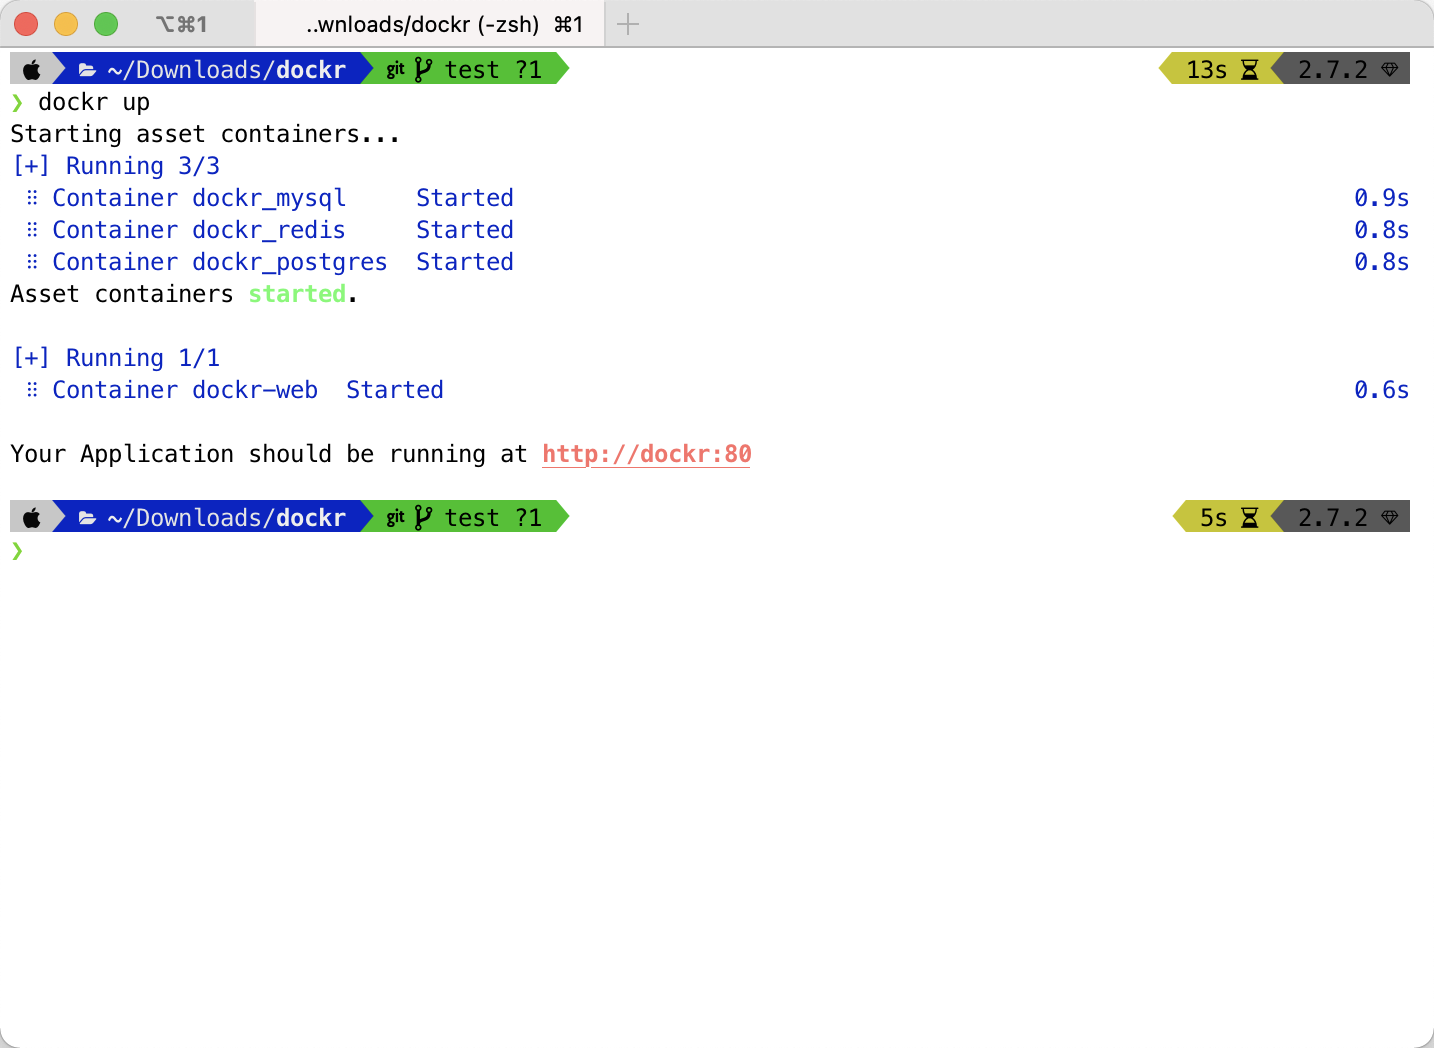
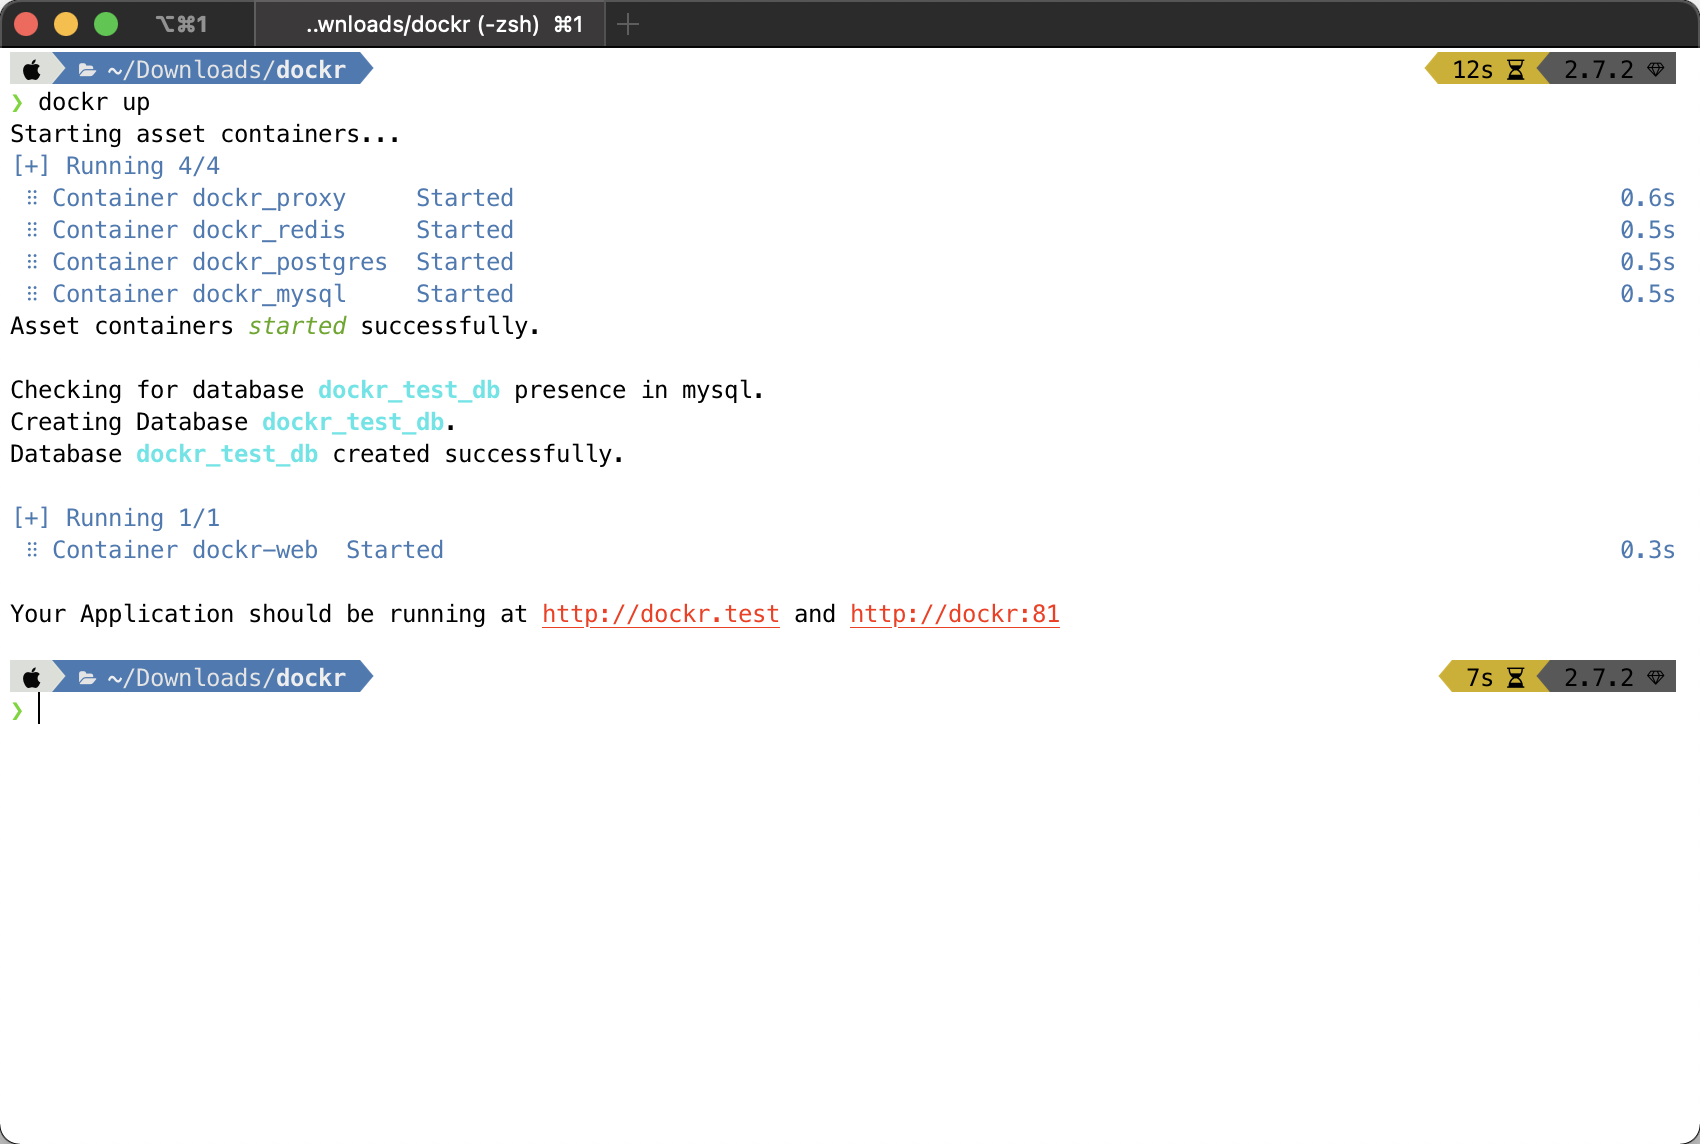
- Added v1.5 version docs

diff --git a/public/assets/landing/style.css b/public/assets/landing/style.css
@@ -2046,3 +2046,17 @@ code {
 .in-development {
     font-size: 15px;
 }
+
+body.lights-off .alert.alert-info {
+    color: #89d5e5 !important;
+    background-color: #073d48 !important;
+    border-color: #51757c !important;
+}
+
+body.lights-off code {
+    background: #323232 !important;
+}
+
+body.lights-off .text-danger {
+    color: #e91f31 !important;
+}

diff --git a/public/template/css/stylesheet.css b/public/template/css/stylesheet.css
@@ -672,7 +672,7 @@ hr {
     overflow: hidden;
     overflow-y: auto;
     width: 260px;
-    height: calc(100% - 70px - 50px);
+    height: calc(100% - 70px);
     z-index: 1;
     border-right: 1px solid rgba(0, 0, 0, 0.05);
     transition: all 0.3s;

diff --git a/public/assets/custom.css b/public/assets/custom.css
@@ -7,7 +7,7 @@
 }
 
 #markdown_content blockquote {
-    background-color: #eeeeee;
+    background-color: #fff1eb;
     border-radius: 10px;
     border-left: 5px solid #f5723b !important;
 }

diff --git a/resources/views/landing.blade.php b/resources/views/landing.blade.php
@@ -39,7 +39,7 @@
                         <h1 class="hero-title mt-0">DockR package for Laravel</h1>
                         <p class="hero-paragraph">Our package lets your Laravel projects run with Docker seamlessly for Local development environment.</p>
                         <div class="hero-cta">
-                            <a class="button button-primary" href="{{ getDocsRoute(null, 'installation') }}">Get it now</a>
+                            <a class="button button-primary" href="{{ route('docs.latest', ['path' => 'introduction']) }}">Get it now</a>
                         </div>
                     </div>
                     <div class="hero-media">
@@ -52,6 +52,7 @@
                             <img class="hero-media-illustration-image asset-dark" src="{{ asset('assets/landing/images/hero-media-illustration-dark.svg') }}" alt="Hero media illustration">
                         </div>
                         <div class="hero-media-container">
+                            {{-- Terminal rows and columns used for this image : 120 x 34 --}}
                             <img class="hero-media-image asset-light" src="{{ asset('assets/landing/images/terminal-output/up-light.png') }}" alt="Hero media">
                             <img class="hero-media-image asset-dark" src="{{ asset('assets/landing/images/terminal-output/up-dark.png') }}" alt="Hero media">
                         </div>
@@ -89,6 +90,18 @@
                                 <div class="feature-content">
                                     <h3 class="feature-title mt-0">PHP Versions</h3>
                                     <p class="text-sm mb-0">DockR supports almost every PHP Versions. Don't worry, other PHP versions weren't abandoned, they will be supported in the upcoming weeks.</p>
+                                </div>
+                            </div>
+                        </div>
+                        <div class="feature is-revealing">
+                            <div class="feature-inner">
+                                <div class="feature-icon">
+                                    <img class="asset-light" src="{{ asset('assets/landing/images/feature-03-light.svg') }}" alt="Feature 03">
+                                    <img class="asset-dark" src="{{ asset('assets/landing/images/feature-03-dark.svg') }}" alt="Feature 03">
+                                </div>
+                                <div class="feature-content">
+                                    <h3 class="feature-title mt-0">Proxy</h3>
+                                    <p class="text-sm mb-0">DockR provides an option to proxy the incoming request via a Domain name of your choice instead of using <i>localhost:port</i></p>
                                 </div>
                             </div>
                         </div>
@@ -153,17 +166,17 @@
                             </div>
                         </div>
                     </div>
-                    <div style="padding-top: 88px; font-size:16px">
-                        <div class="alert alert-info">
-                            <div class="row">
-                                <div class="text-danger">Note : &nbsp;</div>
-                                <div>
-                                    More features such as <code class="text-danger">DB Import</code>, <code class="text-danger">Asset Config</code>, <code class="text-danger">Site Proxy</code> and more were already build and is in testing phase.
-                                    <br>We will release the next version once the issues fixed and documentation works are completed.
-                                </div>
-                            </div>
-                        </div>
-                    </div>
+{{--                    <div style="padding-top: 88px; font-size:16px">--}}
+{{--                        <div class="alert alert-info">--}}
+{{--                            <div class="row">--}}
+{{--                                <div class="text-danger">Note : &nbsp;</div>--}}
+{{--                                <div>--}}
+{{--                                    More features such as <code class="text-danger">DB Import</code>, <code class="text-danger">Asset Config</code>, <code class="text-danger">Site Proxy</code> and more were already build and is in testing phase.--}}
+{{--                                    <br>We will release the next version once the issues fixed and documentation works are completed.--}}
+{{--                                </div>--}}
+{{--                            </div>--}}
+{{--                        </div>--}}
+{{--                    </div>--}}
                 </div>
             </div>
         </section>
@@ -172,13 +185,13 @@
             <div class="container-sm">
                 <div class="cta-inner section-inner">
                     <div class="cta-header text-center">
-                        <h2 class="section-title mt-0">Documentation <span class="in-development">(In Development)</span></h2>
+                        <h2 class="section-title mt-0">Documentation</h2>
 
-                        <p class="section-paragraph">A not so well-prepared documentation is already live. Documentation preparation is on progress.
-                            It is delayed due to the global pandemic. Documentation will be updated as soon as possible.
+                        <p class="section-paragraph">
+                            For more information on DockR.<br>Please visit the documentation<br>Documentation link below.
                         </p>
                         <div class="cta-cta">
-                            <a class="button button-primary" href="{{ getDocsRoute(null, 'introduction') }}">Documentation</a>
+                            <a class="button button-primary" href="{{ route('docs.latest') }}">Documentation</a>
                         </div>
                     </div>
                 </div>

diff --git a/resources/views/docs/navbar.blade.php b/resources/views/docs/navbar.blade.php
@@ -1,0 +1,37 @@
+<header id="header" class="sticky-top">
+    <!-- Navbar -->
+    <nav class="primary-menu navbar navbar-expand-lg">
+        <div class="container-fluid">
+            <!-- Sidebar Toggler -->
+            <button id="sidebarCollapse" class="navbar-toggler d-block d-md-none" type="button">
+                <span></span>
+                <span class="w-75"></span>
+                <span class="w-50"></span>
+            </button>
+
+            <!-- Logo -->
+            <a class="logo ml-md-3" href="{{ route('home') }}" title="{{ $appName }}">
+                <img alt="{{ $appName }}"
+                     src="{{ $appLogo }}"
+                     width="150rem"/>
+            </a>
+
+{{--            <div class="row mr-3 ml-0">--}}
+{{--                 Todo : Add blog Site Link --}}
+{{--                <x-header.version_dropdown></x-header.version_dropdown>--}}
+{{--            </div>--}}
+
+            <div id="header-nav" class="collapse navbar-collapse justify-content-end">
+                <ul class="navbar-nav">
+                    @if(configEnv('pages.blog.enabled'))
+                        <li>
+                            <a href="{{ configEnv('pages.blog.link') }}">Blog</a>
+                        </li>
+                    @endif
+                    <x-header.version_dropdown></x-header.version_dropdown>
+                </ul>
+            </div>
+        </div>
+    </nav>
+    <!-- Navbar End -->
+</header>

diff --git a/resources/views/components/header/version_dropdown.blade.php b/resources/views/components/header/version_dropdown.blade.php
@@ -1,14 +1,19 @@
-<div class="row mr-3 ml-0">
-    <label for="header_version_toggle"></label>
-    <select class="version" id="header_version_toggle" name="version_toggle">
+<li class="dropdown">
+    <a class="dropdown-toggle" href="#" onclick="event.preventDefault()">
+        {{ ucwords(request()->route()->parameter('version')) }}
+        <span class="mx-1">&bigtriangledown;</span>
+    </a>
+    <ul class="dropdown-menu">
         @foreach(getVersionList() as $version)
-            <option value="{{ $version }}"
+            <li>
+                <a href="{{ getDocsRoute($version, request()->route('path')) }}"
                     @if($version == request()->route()->parameter('version'))
-                    selected
-                    data-page="current"
+                        onclick="event.preventDefault()" class="dropdown-item text-info"
+                   @else
+                        class="dropdown-item"
                     @endif
-                    data-url="{{ getDocsRoute($version, request()->route('path')) }}"
-            >{{ $version }}</option>
+                >{{ ucwords($version) }}</a>
+            </li>
         @endforeach
-    </select>
-</div>
+    </ul>
+</li>

diff --git a/config/environment-values.php b/config/environment-values.php
@@ -44,7 +44,7 @@ return [
             'v1.1',
             'v1.2',
         ],
-        'default' => 'v1.2',
+        'default' => env('DOCS_DEFAULT_VERSION', 'v1.2'),
     ],
 
     /*
@@ -53,7 +53,19 @@ return [
     |--------------------------------------------------------------------------
     */
     'path' => [
-        'default' => 'installation',
+        'default' => env('DOCS_DEFAULT_PATH', 'install-mac'),
         'sidebar' => 'documentation',
     ],
+
+    /*
+    |--------------------------------------------------------------------------
+    | Other pages
+    |--------------------------------------------------------------------------
+    */
+    'pages' => [
+        'blog' => [
+            'enabled' => env('DOCKR_BLOG_ENABLED', false),
+            'link' => env('DOCKR_BLOG_LINK', 'https://blog.dockr.in')
+        ],
+    ]
 ];

diff --git a/app/Http/Middleware/View.php b/app/Http/Middleware/View.php
@@ -28,8 +28,29 @@ class View
             // Repo Logo
             'githubLogo' => asset('logo/others/github.png'),
             'dockerHubLogo' => asset('logo/others/docker_hub.png'),
+
+            // Path for setting Title of the page
+            'titlePath' => $this->parseTitlePath($request),
         ]);
 
         return $next($request);
+    }
+
+    /**
+     * Parse Title Path Text
+     *
+     * @param Request $request
+     * @return string
+     */
+    private function parseTitlePath(Request $request)
+    {
+        $path = $request->route()->parameter('path');
+
+        if (isset($path)) {
+            $path = str_replace('-', ' ', $path);
+            $path = str_replace('_', ' ', $path);
+            return ucwords(strtolower($path)) . ' |';
+        }
+        return '';
     }
 }

diff --git a/routes/web.php b/routes/web.php
@@ -2,7 +2,6 @@
 
 use App\Http\Controllers\DocumentController;
 use App\Http\Controllers\HomeController;
-use App\Http\Controllers\MarkdownController;
 use Illuminate\Support\Facades\Route;
 
 /*
@@ -16,6 +15,12 @@ use Illuminate\Support\Facades\Route;
 |
 */
 
+// Landing Page
 Route::get('/', [HomeController::class, 'index'])->name('home');
 
+// Latest Docs Route
+Route::get('docs/latest/{path?}', [DocumentController::class, 'latest'])->name('docs.latest');
+
+// Specified Docs Route
 Route::get('docs/{version}/{path}', [DocumentController::class, 'show'])->name('docs.show');
+Route::get('docs/{version}/{path}/{sub_path}', [DocumentController::class, 'show'])->name('docs.show_2');

diff --git a/resources/views/docs/layout.blade.php b/resources/views/docs/layout.blade.php
@@ -5,7 +5,7 @@
     <meta http-equiv="X-UA-Compatible" content="IE=edge">
     <meta name="viewport" content="width=device-width, initial-scale=1, minimum-scale=1.0, shrink-to-fit=no">
     <link href="{{ $appIcon  }}" rel="icon"/>
-    <title>{{ $appName }}</title>
+    <title>{{ $titlePath }} {{ $appName }}</title>
     <meta name="author" content="sharanvelu">
     <meta name="description" content="Documentation For Dockr">
 
@@ -40,7 +40,7 @@
 <div id="main-wrapper">
 
     <!-- Header -->
-@include('docs.header')
+    @include('docs.navbar')
 
     <!-- Content -->
     <div id="content" role="main">

diff --git a/resources/views/docs/sidebar.blade.php b/resources/views/docs/sidebar.blade.php
@@ -1,14 +1,3 @@
 <div class="idocs-navigation bg-light">
     {!! $sidebarContent !!}
-
-    <div class="sidebar-links p-2">
-        <div class="row justify-content-around m-0">
-            <a class="repo-link-icon" href="{{ $dockrGithub }}" target="_blank">
-                <img src="{{ $githubLogo }}" alt="Github Logo">
-            </a>
-            <a class="repo-link-icon" href="{{ $dockrDockerHub }}" target="_blank">
-                <img class="docker-hub-logo" src="{{ $dockerHubLogo }}" alt="Docker Hub Logo">
-            </a>
-        </div>
-    </div>
 </div>

diff --git a/app/Http/Controllers/DocumentController.php b/app/Http/Controllers/DocumentController.php
@@ -84,4 +84,19 @@ class DocumentController extends Controller
             $this->content = view('docs.not-found.path');
         }
     }
+
+    /**
+     * Redirect to the latest version.
+     *
+     * @param $path
+     * @return \Illuminate\Contracts\Foundation\Application|\Illuminate\Http\RedirectResponse|\Illuminate\Routing\Redirector
+     */
+    public function latest($path = null)
+    {
+        $version = getDefaultVersion();
+
+        $route = getDocsRoute($version, $path);
+
+        return redirect($route);
+    }
 }
